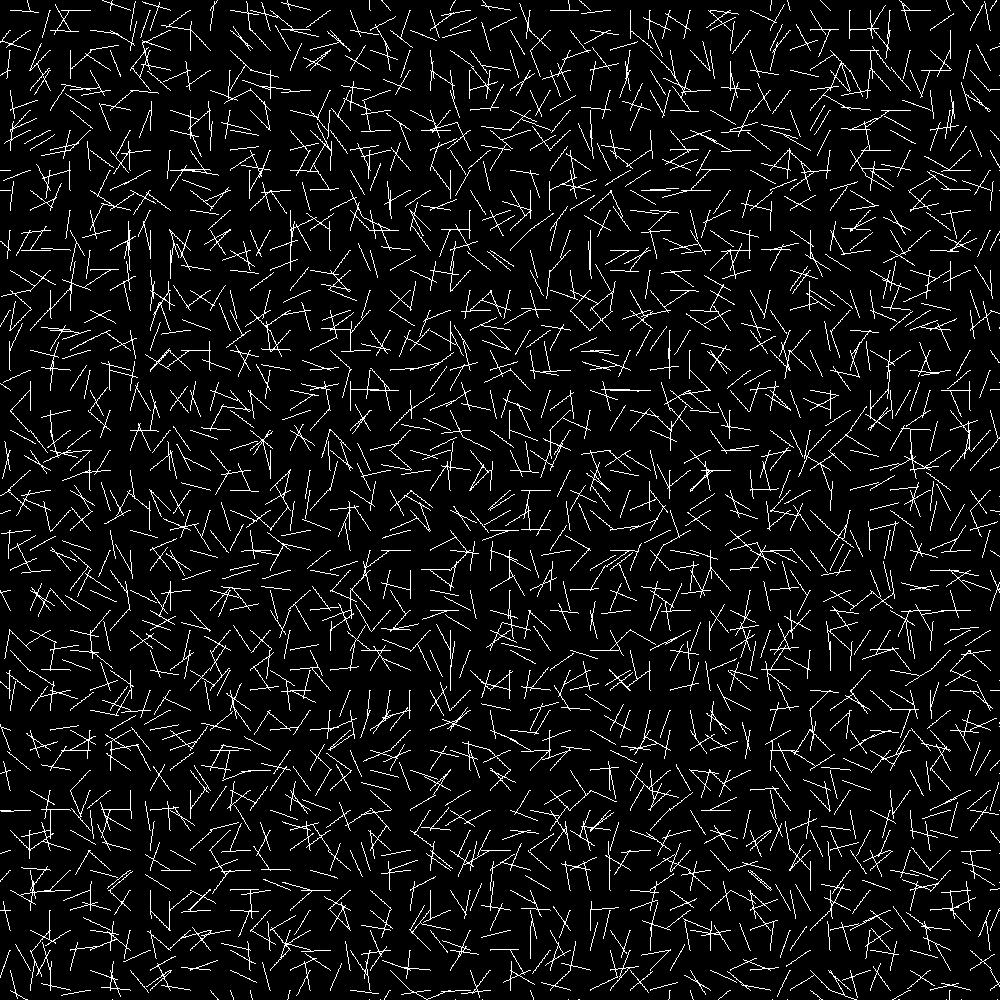
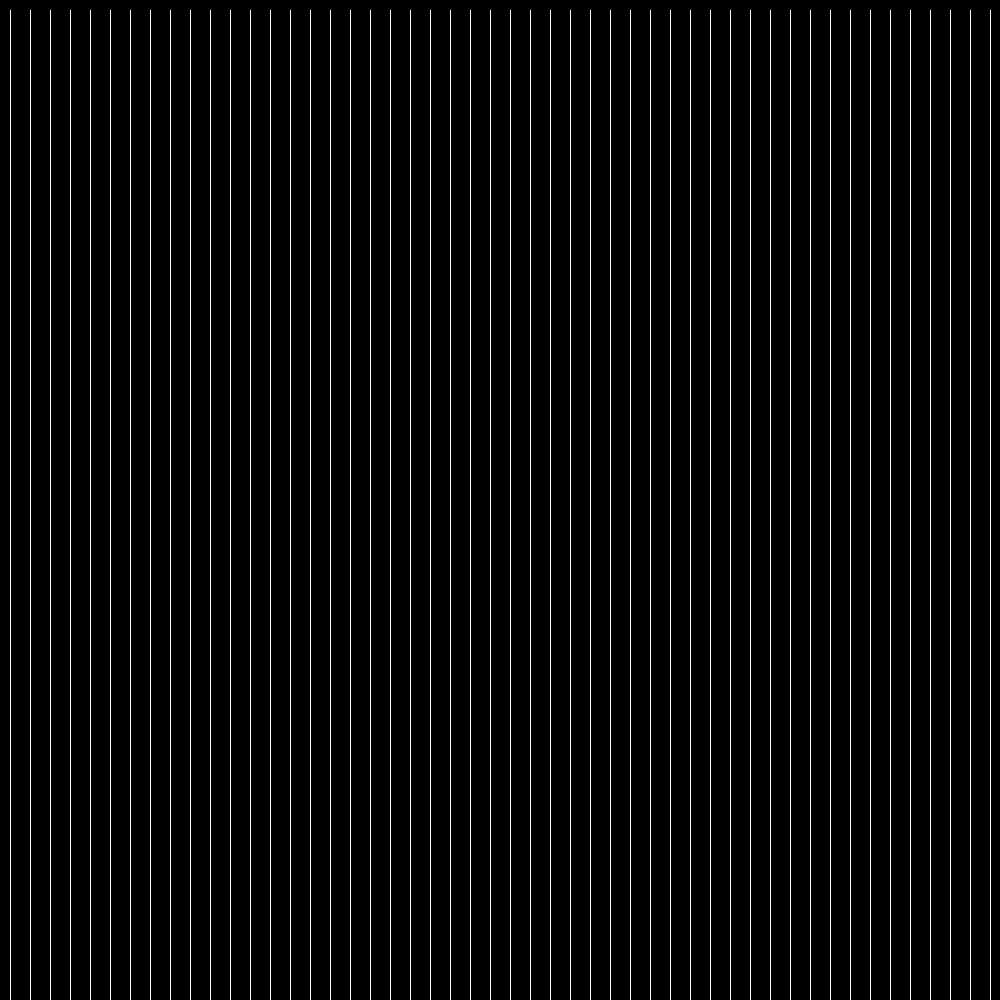
Added Perlin, but it does not work lol

diff --git a/perlin.py b/perlin.py
@@ -1,0 +1,154 @@
+"""Perlin noise implementation."""
+# Licensed under ISC
+from itertools import product
+import math
+import random
+
+
+def smoothstep(t):
+    """Smooth curve with a zero derivative at 0 and 1, making it useful for
+    interpolating.
+    """
+    return t * t * (3. - 2. * t)
+
+
+def lerp(t, a, b):
+    """Linear interpolation between a and b, given a fraction t."""
+    return a + t * (b - a)
+
+
+class PerlinNoiseFactory(object):
+    """Callable that produces Perlin noise for an arbitrary point in an
+    arbitrary number of dimensions.  The underlying grid is aligned with the
+    integers.
+    There is no limit to the coordinates used; new gradients are generated on
+    the fly as necessary.
+    """
+
+    def __init__(self, dimension, octaves=1, tile=(), unbias=False):
+        """Create a new Perlin noise factory in the given number of dimensions,
+        which should be an integer and at least 1.
+        More octaves create a foggier and more-detailed noise pattern.  More
+        than 4 octaves is rather excessive.
+        ``tile`` can be used to make a seamlessly tiling pattern.  For example:
+            pnf = PerlinNoiseFactory(2, tile=(0, 3))
+        This will produce noise that tiles every 3 units vertically, but never
+        tiles horizontally.
+        If ``unbias`` is true, the smoothstep function will be applied to the
+        output before returning it, to counteract some of Perlin noise's
+        significant bias towards the center of its output range.
+        """
+        self.dimension = dimension
+        self.octaves = octaves
+        self.tile = tile + (0,) * dimension
+        self.unbias = unbias
+
+        # For n dimensions, the range of Perlin noise is ±sqrt(n)/2; multiply
+        # by this to scale to ±1
+        self.scale_factor = 2 * dimension ** -0.5
+
+        self.gradient = {}
+
+    def _generate_gradient(self):
+        # Generate a random unit vector at each grid point -- this is the
+        # "gradient" vector, in that the grid tile slopes towards it
+
+        # 1 dimension is special, since the only unit vector is trivial;
+        # instead, use a slope between -1 and 1
+        if self.dimension == 1:
+            return (random.uniform(-1, 1),)
+
+        # Generate a random point on the surface of the unit n-hypersphere;
+        # this is the same as a random unit vector in n dimensions.  Thanks
+        # to: http://mathworld.wolfram.com/SpherePointPicking.html
+        # Pick n normal random variables with stddev 1
+        random_point = [random.gauss(0, 1) for _ in range(self.dimension)]
+        # Then scale the result to a unit vector
+        scale = sum(n * n for n in random_point) ** -0.5
+        return tuple(coord * scale for coord in random_point)
+
+    def get_plain_noise(self, *point):
+        """Get plain noise for a single point, without taking into account
+        either octaves or tiling.
+        """
+        if len(point) != self.dimension:
+            raise ValueError("Expected {} values, got {}".format(
+                self.dimension, len(point)))
+
+        # Build a list of the (min, max) bounds in each dimension
+        grid_coords = []
+        for coord in point:
+            min_coord = math.floor(coord)
+            max_coord = min_coord + 1
+            grid_coords.append((min_coord, max_coord))
+
+        # Compute the dot product of each gradient vector and the point's
+        # distance from the corresponding grid point.  This gives you each
+        # gradient's "influence" on the chosen point.
+        dots = []
+        for grid_point in product(*grid_coords):
+            if grid_point not in self.gradient:
+                self.gradient[grid_point] = self._generate_gradient()
+            gradient = self.gradient[grid_point]
+
+            dot = 0
+            for i in range(self.dimension):
+                dot += gradient[i] * (point[i] - grid_point[i])
+            dots.append(dot)
+
+        # Interpolate all those dot products together.  The interpolation is
+        # done with smoothstep to smooth out the slope as you pass from one
+        # grid cell into the next.
+        # Due to the way product() works, dot products are ordered such that
+        # the last dimension alternates: (..., min), (..., max), etc.  So we
+        # can interpolate adjacent pairs to "collapse" that last dimension.  Then
+        # the results will alternate in their second-to-last dimension, and so
+        # forth, until we only have a single value left.
+        dim = self.dimension
+        while len(dots) > 1:
+            dim -= 1
+            s = smoothstep(point[dim] - grid_coords[dim][0])
+
+            next_dots = []
+            while dots:
+                next_dots.append(lerp(s, dots.pop(0), dots.pop(0)))
+
+            dots = next_dots
+
+        return dots[0] * self.scale_factor
+
+    def __call__(self, *point):
+        """Get the value of this Perlin noise function at the given point.  The
+        number of values given should match the number of dimensions.
+        """
+        ret = 0
+        for o in range(self.octaves):
+            o2 = 1 << o
+            new_point = []
+            for i, coord in enumerate(point):
+                coord *= o2
+                if self.tile[i]:
+                    coord %= self.tile[i] * o2
+                new_point.append(coord)
+            ret += self.get_plain_noise(*new_point) / o2
+
+        # Need to scale n back down since adding all those extra octaves has
+        # probably expanded it beyond ±1
+        # 1 octave: ±1
+        # 2 octaves: ±1½
+        # 3 octaves: ±1¾
+        ret /= 2 - 2 ** (1 - self.octaves)
+
+        if self.unbias:
+            # The output of the plain Perlin noise algorithm has a fairly
+            # strong bias towards the center due to the central limit theorem
+            # -- in fact the top and bottom 1/8 virtually never happen.  That's
+            # a quarter of our entire output range!  If only we had a function
+            # in [0..1] that could introduce a bias towards the endpoints...
+            r = (ret + 1) / 2
+            # Doing it this many times is a completely made-up heuristic.
+            for _ in range(int(self.octaves / 2 + 0.5)):
+                r = smoothstep(r)
+            ret = r * 2 - 1
+
+        return ret

diff --git a/main.py b/main.py
@@ -6,11 +6,10 @@
 """
 
 from math import cos, floor, sin
-import random
 import numpy as np
 import matplotlib.pyplot as plt
-from colors import red, green, blue, yellow # pylint: disable=unused-import
 from Vector2 import Ray2, Vector2 # pylint: disable=unused-import
+from perlin import PerlinNoiseFactory
 
 def render(resolution: int, image_height: int, image_width: int, \
     vector_length: float = 100, save_to_file: str='image.png') -> None:
@@ -23,11 +22,13 @@ def render(resolution: int, image_height: int, image_width: int, \
     cells_tall: int = floor(image_height / resolution)
     cells_wide: int = floor(image_width / resolution)
 
+    noise = PerlinNoiseFactory(2, octaves=1)
+    
     grid: list[list[Ray2]] = [[Ray2(Vector2(0, 0), Vector2(0, 0)) for _ in range(cells_wide)] \
         for _ in range(cells_tall)]
     for j in range(cells_tall):  # For each row
         for i in range(cells_wide):  # For each column
-            rand_angle: float = random.random() * 360
+            rand_angle: float = int(noise(i, j) * 360)
             point: Vector2 = Vector2((resolution / 2) + (resolution * i), \
                 (resolution / 2) + (resolution * j))
             rand_x: float = vector_length * sin(rand_angle)
@@ -51,7 +52,7 @@ def render(resolution: int, image_height: int, image_width: int, \
 def main() -> None:
     """ Main
     """
-    render(20, 1000, 1000, 30)
+    render(20, 1000, 1000, 20)
 
 if __name__ == '__main__':
     main()
